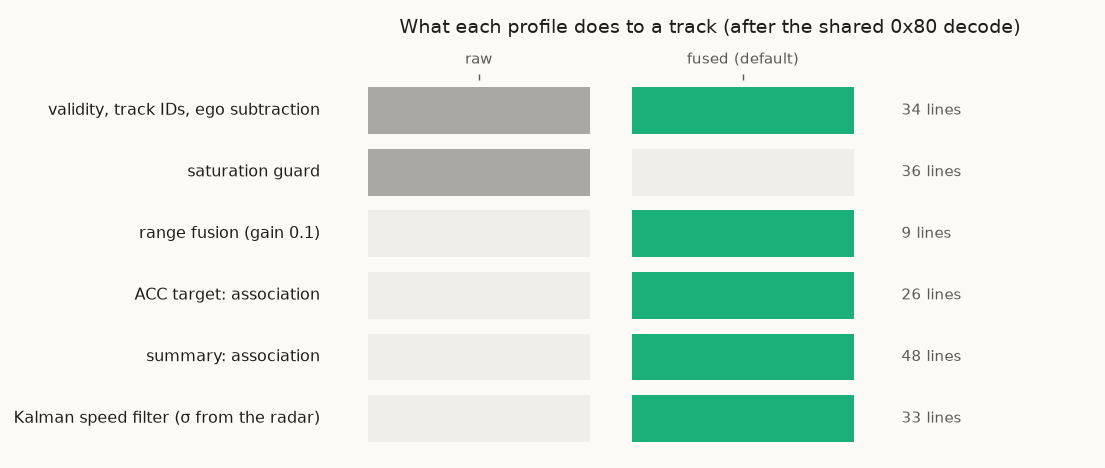
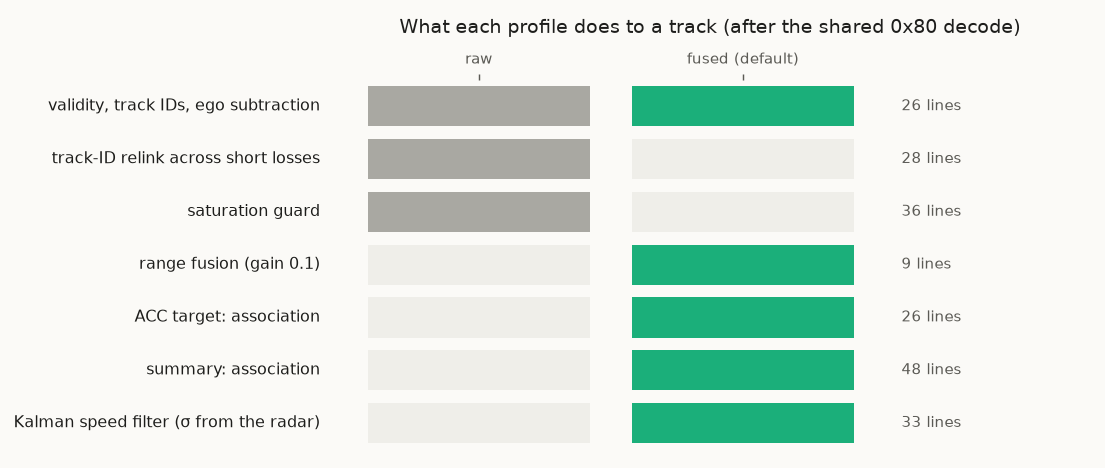
README: the fork build and the openpilot version; profile figure shows relink as raw-only

diff --git a/tools/make_fused_figures.py b/tools/make_fused_figures.py
@@ -135,7 +135,9 @@ def layers() -> None:
     import inspect
     from ars510.interface import Ars510NativeRadarInterface as I
     n = lambda *fs: sum(len(inspect.getsource(f).splitlines()) for f in fs)
-    rows = [("validity, track IDs, ego subtraction", n(I._relink, I._fresh_ego_speed), (1, 1)),
+    from ars510.tracks import NativeTrackIdAssigner
+    rows = [("validity, track IDs, ego subtraction", n(NativeTrackIdAssigner.update, I._fresh_ego_speed), (1, 1)),
+            ("track-ID relink across short losses", n(I._relink), (1, 0)),
             ("saturation guard", n(I._guard), (1, 0)),
             ("range fusion (gain 0.1)", n(I._fused_range), (0, 1)),
             ("ACC target: association", n(I._acc_target_match), (0, 1)),

diff --git a/README.md b/README.md
@@ -73,11 +73,18 @@ usual filter on top.* Model, constants, what each part is worth and the variants
 
 ## Profiles
 
+The code comes in two versions that run the same filter:
+- **Fork build:** the `ars510/` package, installed by default. It is configurable, has the profiles below, and fills
+  the extra point fields sunnypilot still uses.
+- **openpilot version:** [`upstream/ars510_radar.py`](upstream/ars510_radar.py), one 264-line file in opendbc style.
+  It is the smallest version that drives like `fused` on 34 replay drives
+  ([docs/12](docs/12_kalman_filter.md#removing-parts-together)). A test keeps it equal to `fused` point for point.
+
 | profile | install | what it does | use it for |
 |---|---|---|---|
 | **`fused`** (default) | `install.py /data/openpilot` | one Kalman speed filter per track that weights the object list, the radar's ACC target and its target summaries by the radar's own uncertainty | everyday driving: fewest false brakes, vision's smoothness |
 | `raw` | `--profile raw` | the unfiltered radar decode (not vision only, not stock openpilot) | research and comparison only: speed excursions reach the planner |
-| `openpilot` | `--profile openpilot` | the upstream version: one file in opendbc style with the Kalman filter, points with `trackId` / `dRel` / `yRel` / `vRel` only | driving exactly what is proposed for openpilot |
+| `openpilot` | `--profile openpilot` | the openpilot version: the same filter as `fused` from the single upstream file, points with `trackId` / `dRel` / `yRel` / `vRel` only | driving exactly what is proposed for openpilot |
 | `colored` | `--profile colored` | experimental: `fused` with the object list's slow speed error as its own state | road tests of the main alternative ([docs/12](docs/12_kalman_filter.md#kalman-variants-tested)) |
 
 ![which processing each profile applies](docs/img/analysis/profile_layers.png)
